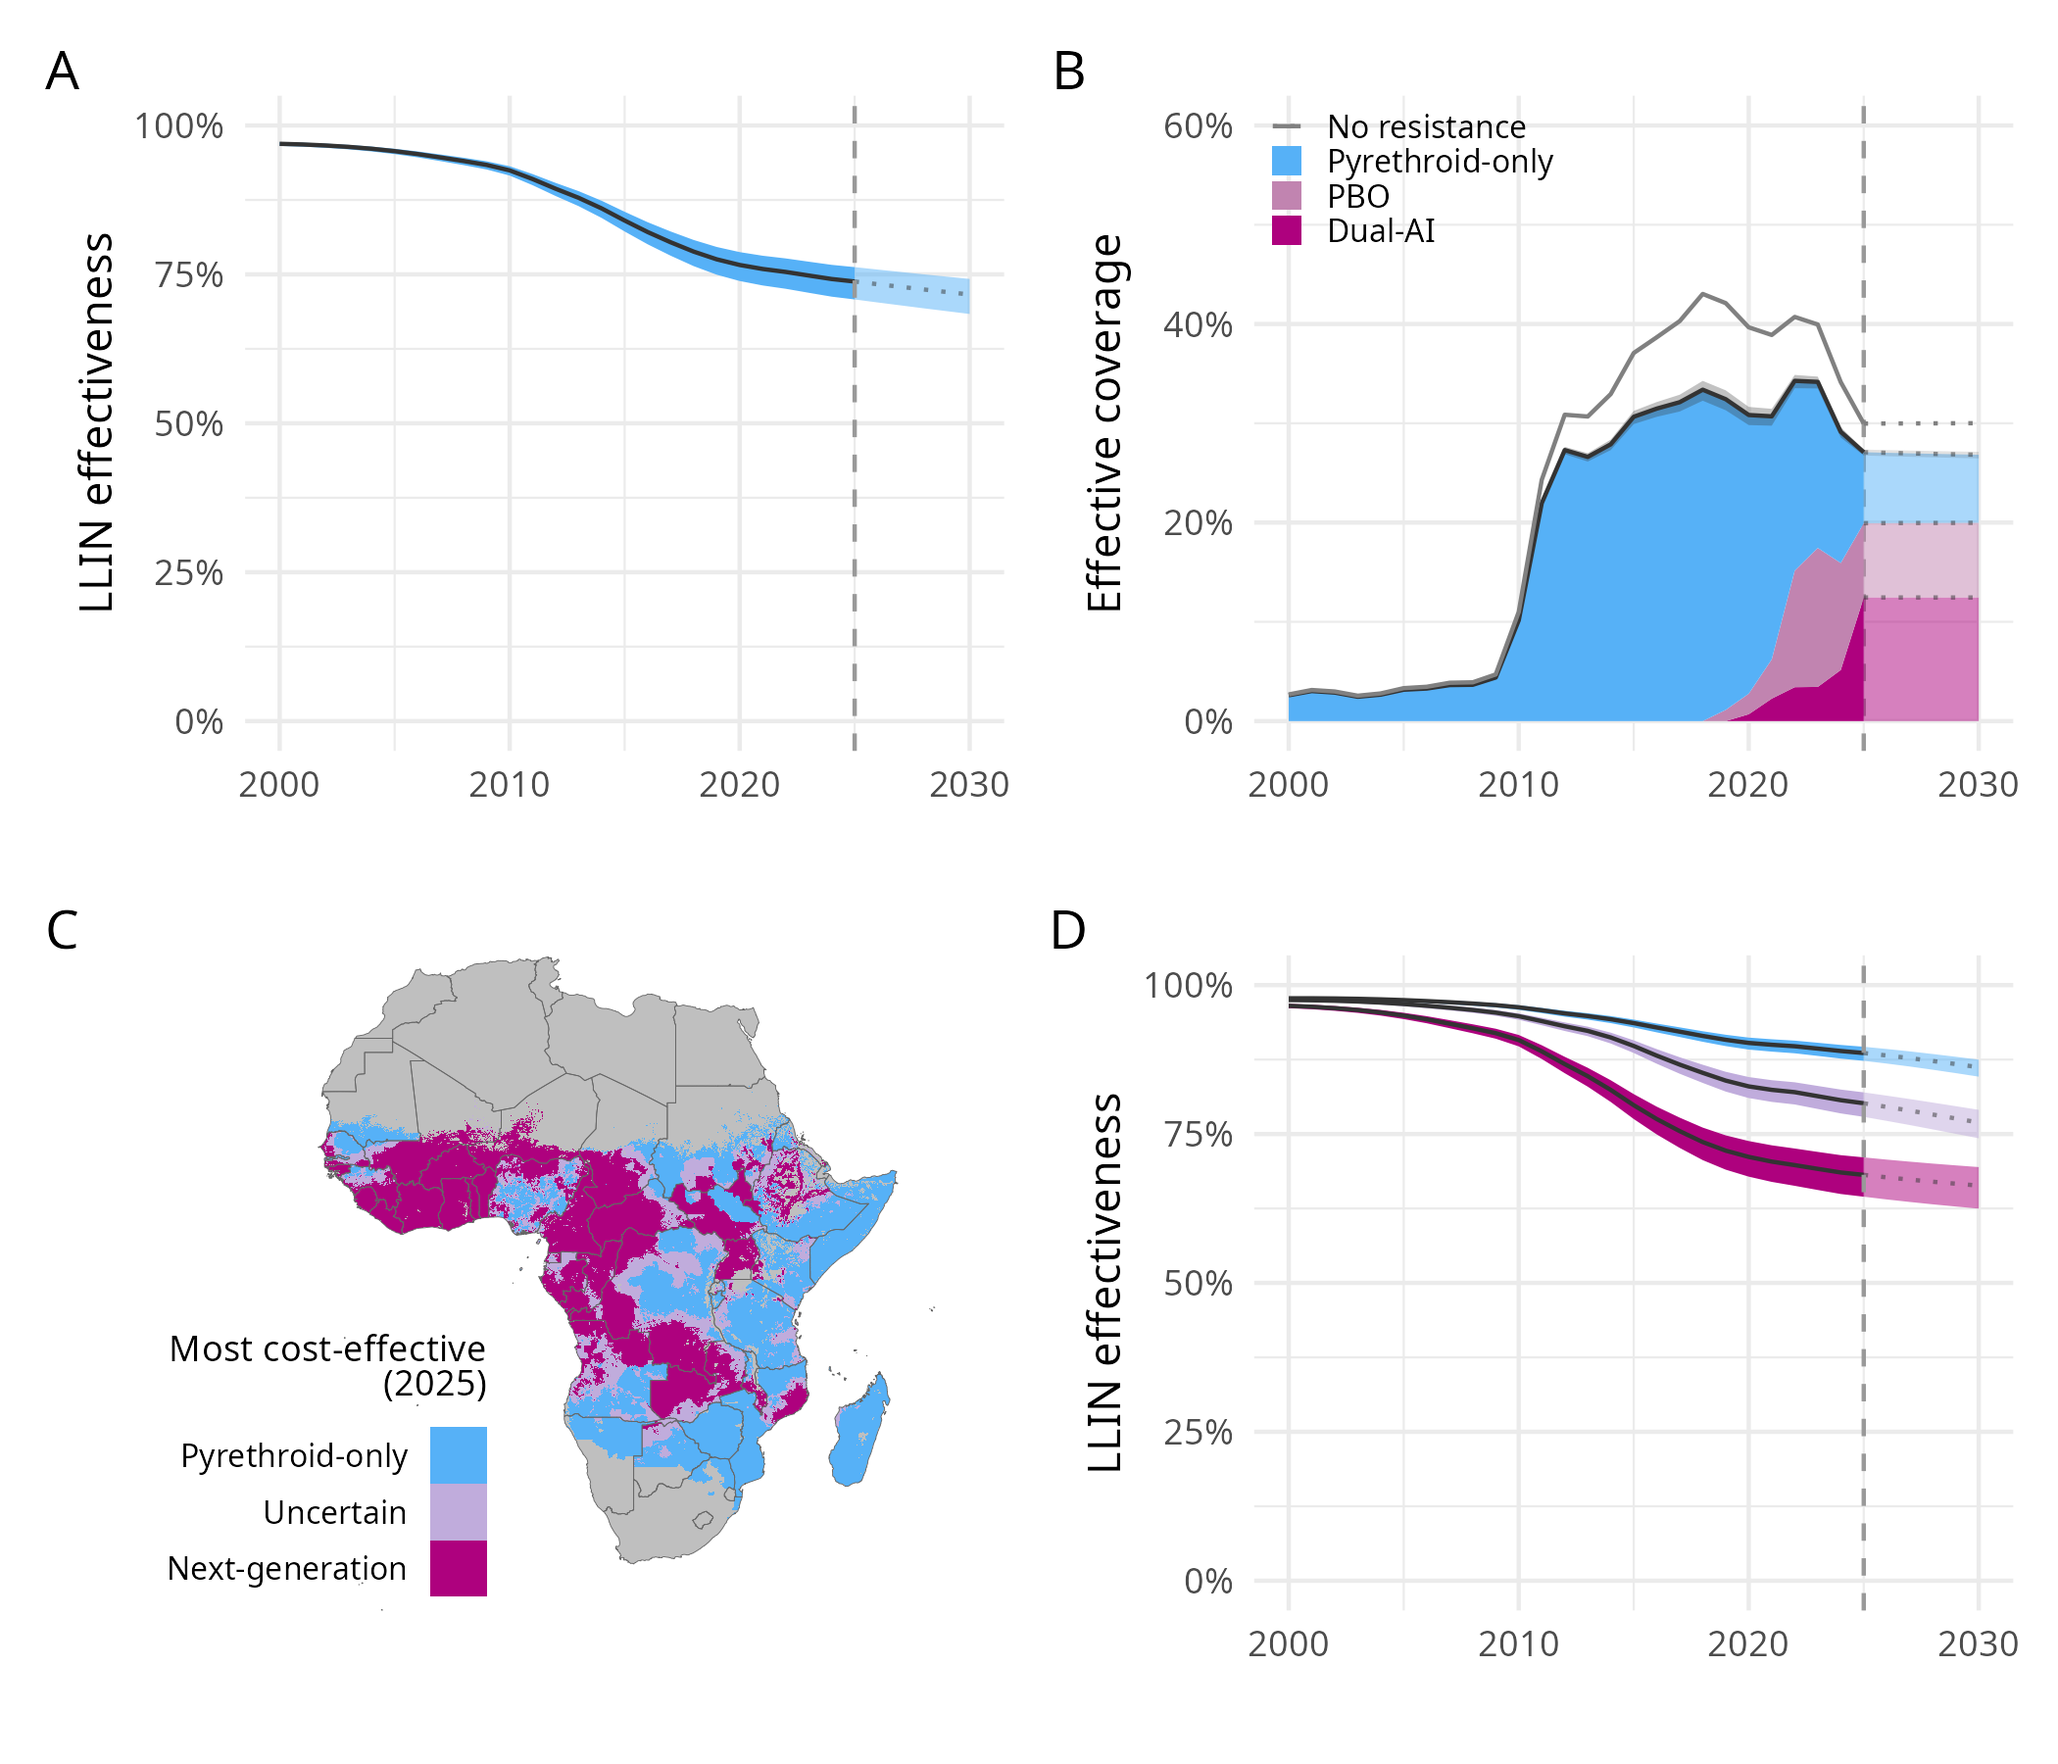
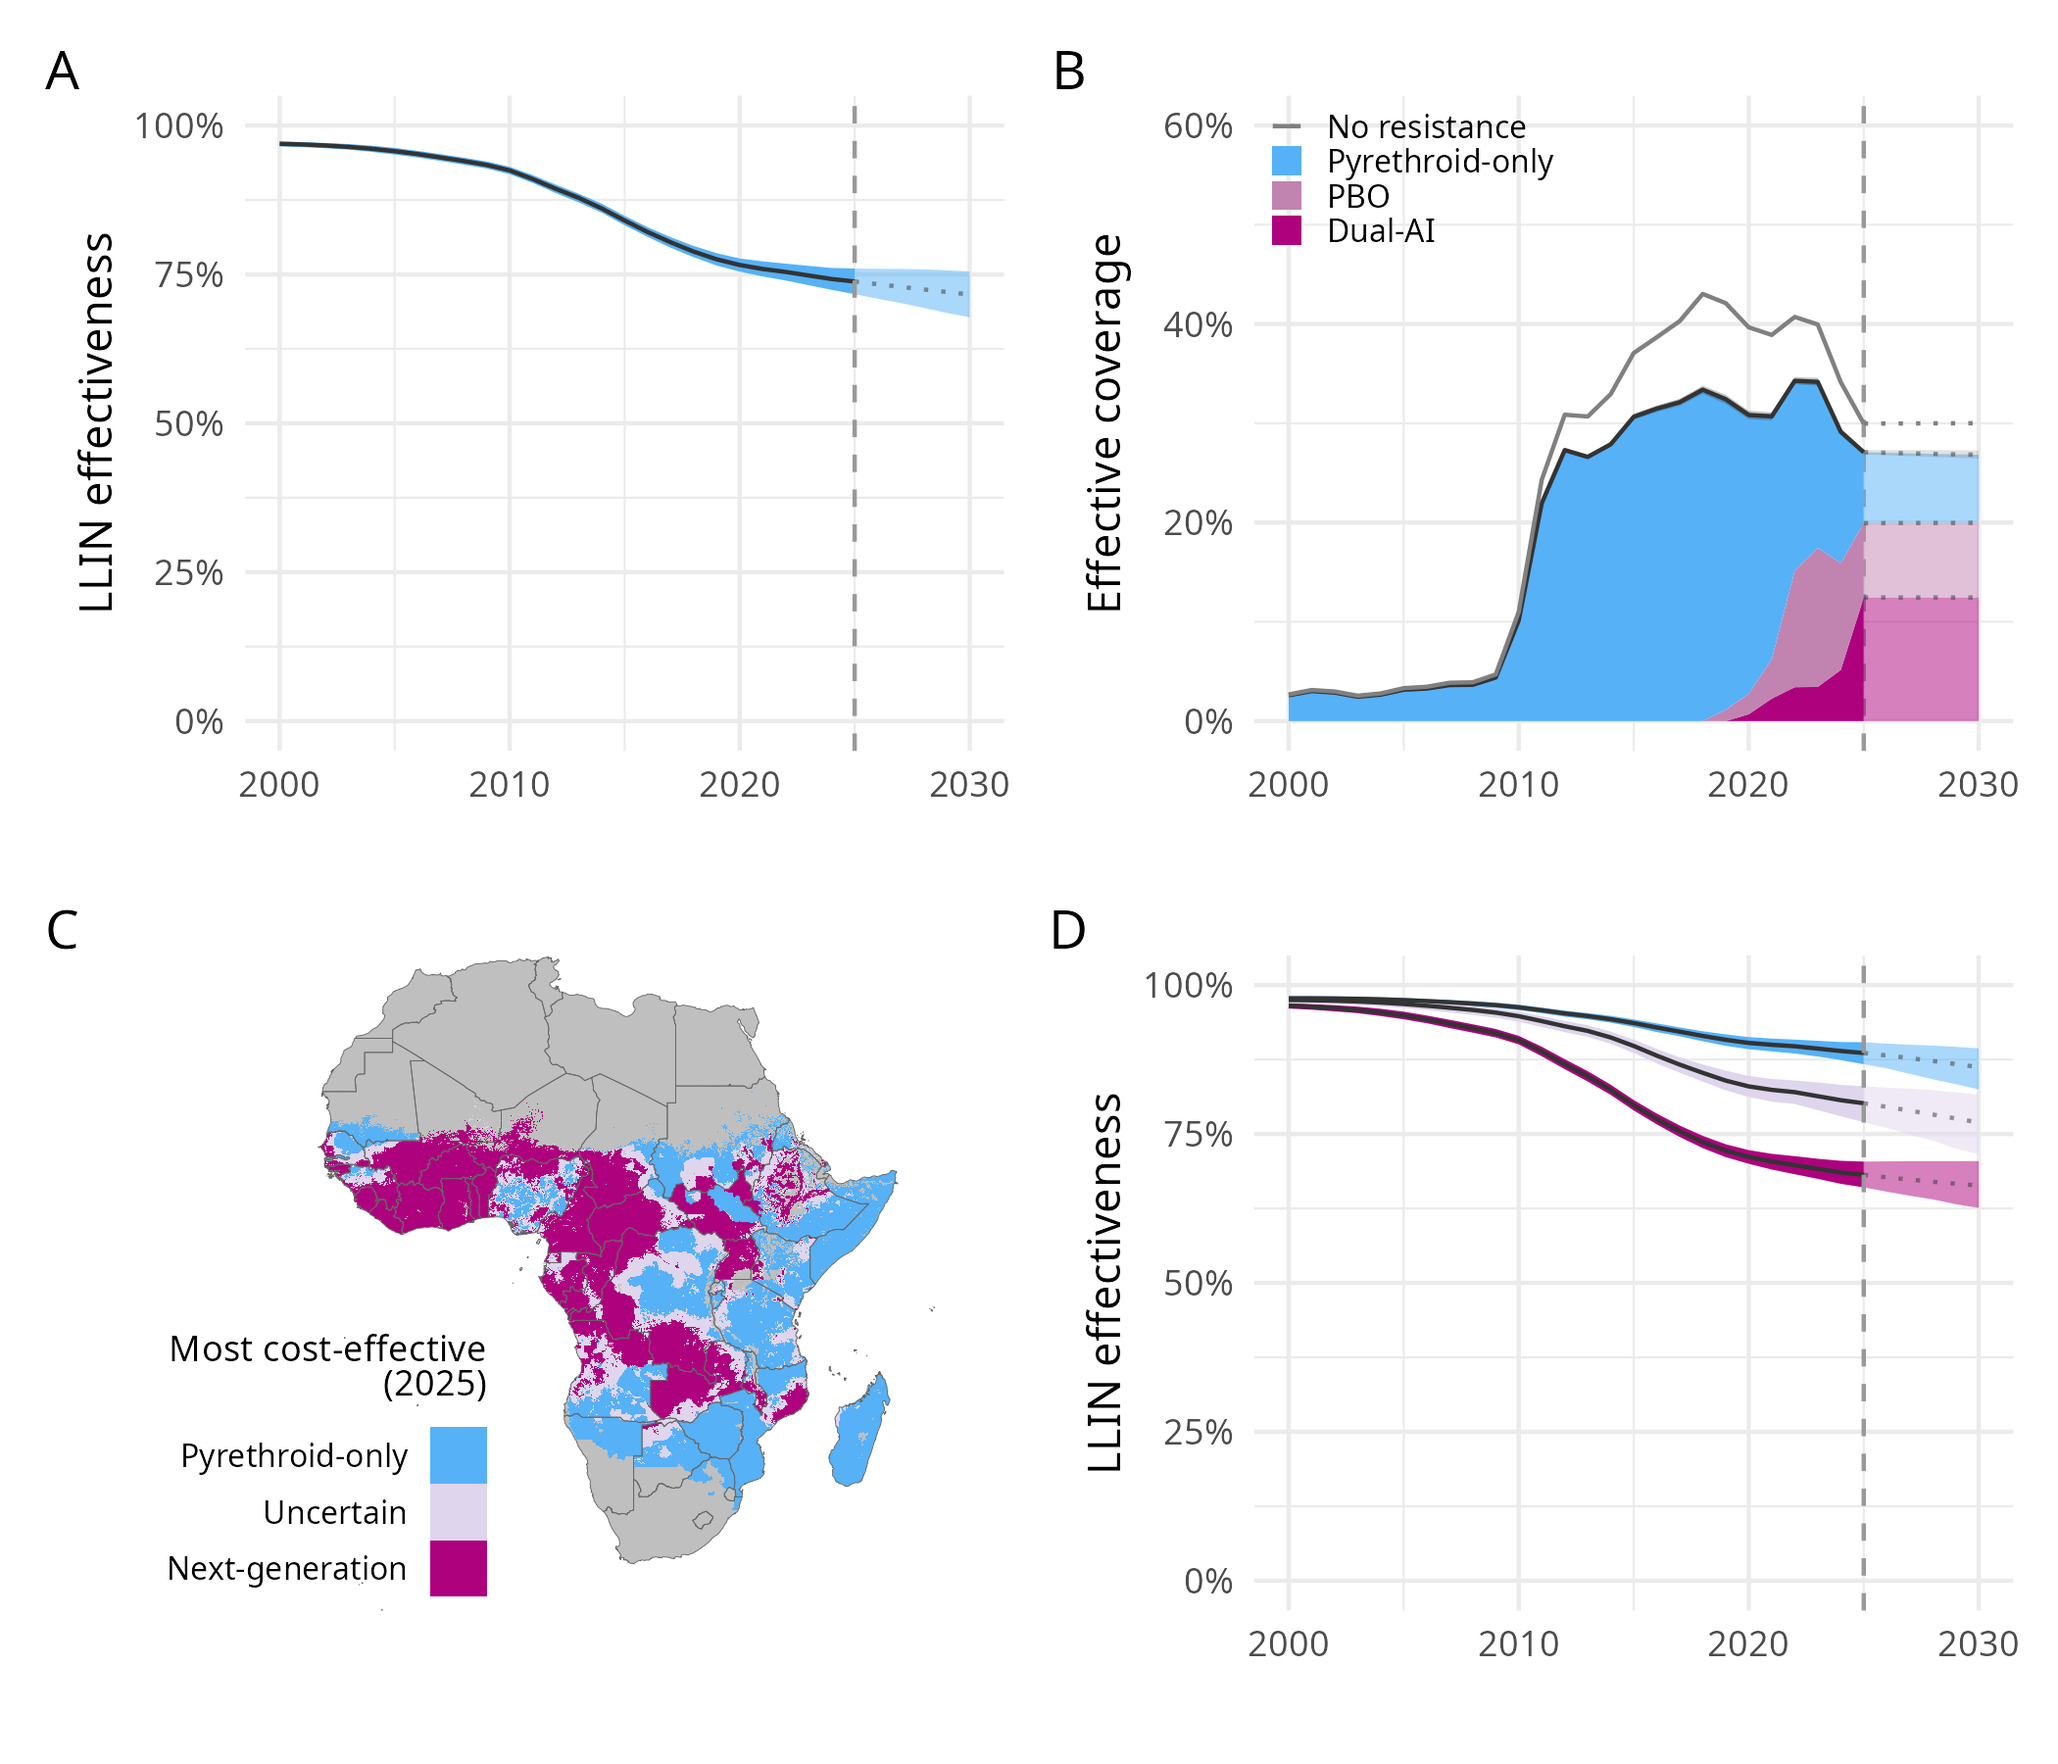
Epi impact figure from the two-stage posterior, classes by posterior mean for now (#75)
The draws ran in one process (forked workers deadlocked here): 3 h, 21 GB.
Means reproduce the published 2025 map; the classes of C and D are by the
posterior mean until the rule is chosen.

Claude-Session: https://claude.ai/code/session_01K9pZxqmkAhB4fpT8abxYN6

diff --git a/README.md b/README.md
@@ -51,8 +51,8 @@ Running order of scripts:
 28. fig_ir_maps.R
 29. fig_ir_map_2025.R
 30. fig_ir_map_2000_2030.R
-31. fig_ento_epi_impact.R: draws from the two-stage posterior (set
-    `IR_CUBE_MAP_WORKERS` and preload OpenBLAS, as for
+31. fig_ento_epi_impact.R: draws from the two-stage posterior (3 h
+    and 21 GB in one process; preload OpenBLAS, as for
     `two_stage_maps.R`)
 32. fig_temporal_preds_data.R
 33. fig_temporal_preds_net_use.R
